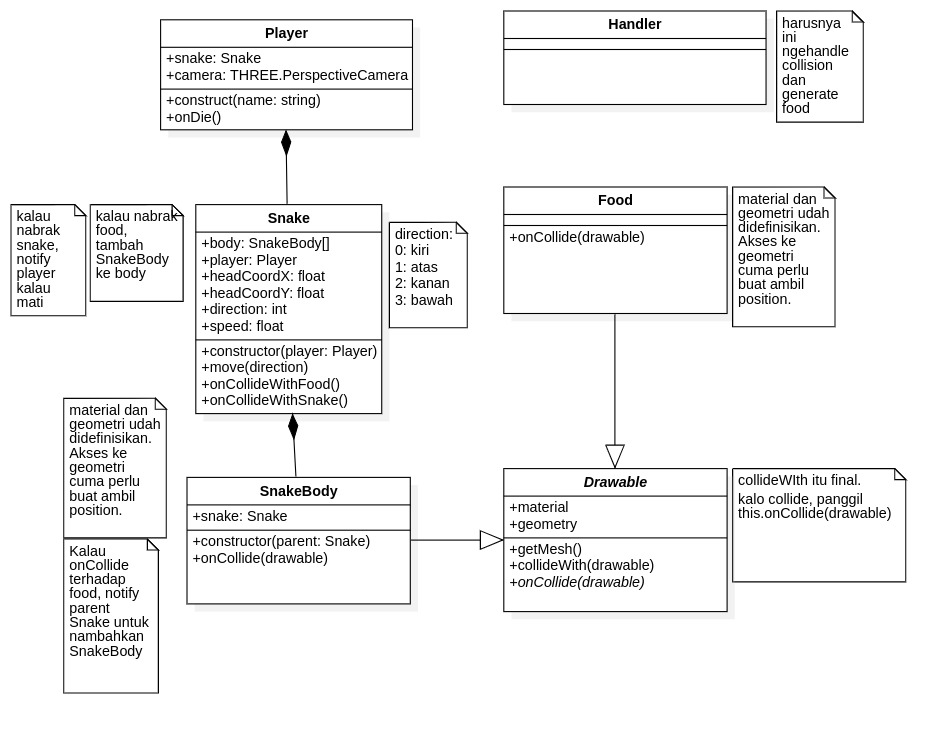
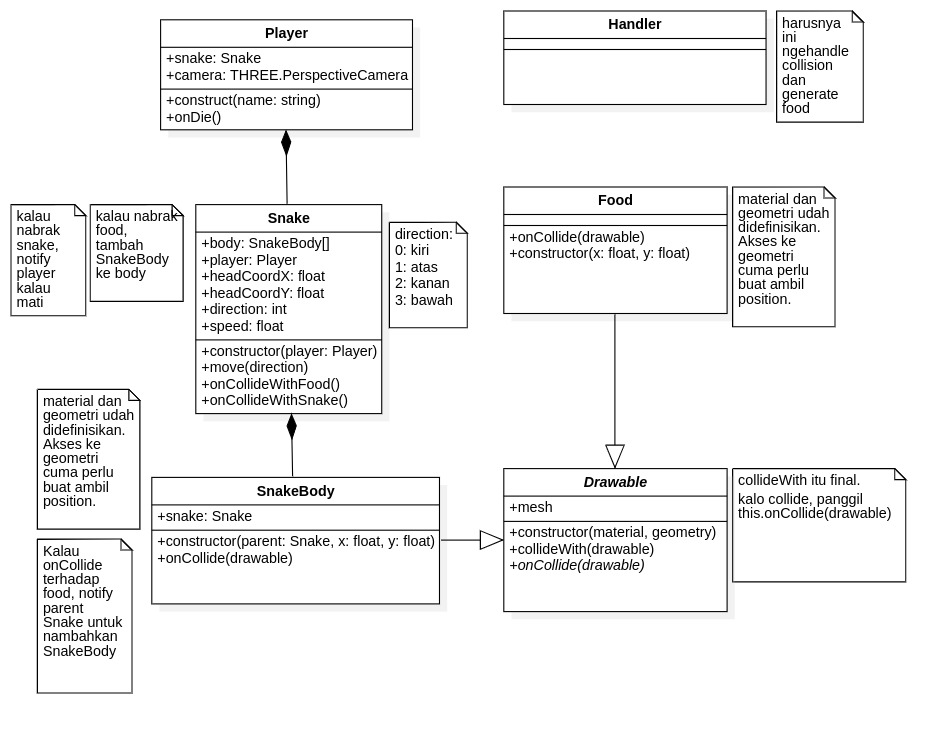
update

diff --git a/Frontend/js/objects/Snake.js b/Frontend/js/objects/Snake.js
@@ -2,15 +2,44 @@
 /// <reference path="./Player.js" />
 /// <reference path="./SnakeBody.js" />
 
+const LEFT = 0;
+const UP = 1;
+const RIGHT = 2;
+const DOWN = 3;
 class Snake {
     /**
      * 
      * @param {Player} player 
      */
     constructor(player) {
-        this.player = player;
         /** @type {SnakeBody[]} */
         this.body = new Array();
         this.body.push(new SnakeBody(this));
+        this.player = player;
+        this.headCoordX = 0;
+        this.headCoordY = 0;
+        this.direction = UP;
+        this.speed = 1;
+    }
+
+    /**
+     * 
+     * @param {Number} direction 
+     */
+    move(direction) {
+        switch(direction) {
+            case UP:
+                this.headCoordY+=this.speed;
+                break;
+            case DOWN:
+                this.headCoordY-=this.speed;
+                break;
+            case LEFT:
+                this.headCoordX-=this.speed;
+                break;
+            case RIGHT:
+                this.headCoordX+=this.speed;
+                break;
+        }
     }
 }

diff --git a/Frontend/js/objects/Drawable.js b/Frontend/js/objects/Drawable.js
@@ -7,13 +7,6 @@ class Drawable {
      * @param {THREE.Geometry} geometry 
      */
     construct(material, geometry) {
-        /** @type {THREE.Material} */
-        this.material = material;
-        /** @type {THREE.Geometry} */
-        this.geometry = geometry;
-    }
-
-    getMesh() {
-        return new THREE.Mesh(this.geometry, this.material);
+        this.mesh = new THREE.Mesh(geometry, material);
     }
 }

diff --git a/README.md b/README.md
@@ -16,3 +16,4 @@ Kalau mau autocomplete dari kelas lain, tambahkan line di atas dan ganti path-ny
 
 Usahakan setiap class, method, attribute, dan variabel didokumentasikan dengan standar JSDoc (https://devdocs.io/jsdoc/)
 
+Kalau ada perubahan, silahkan ubah readme ini.
